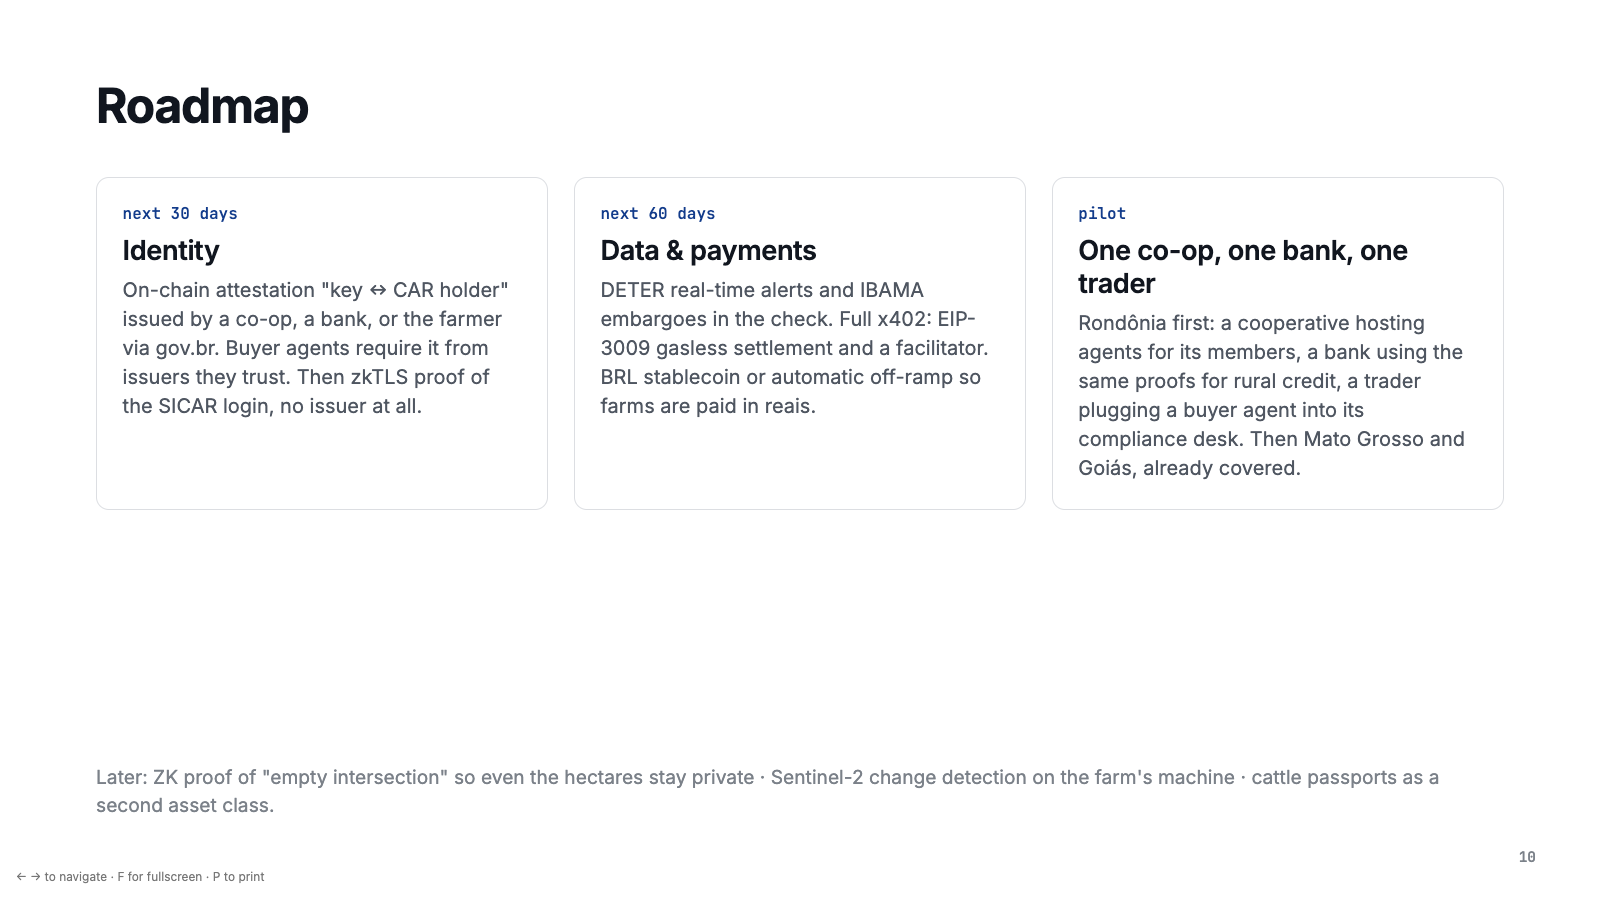
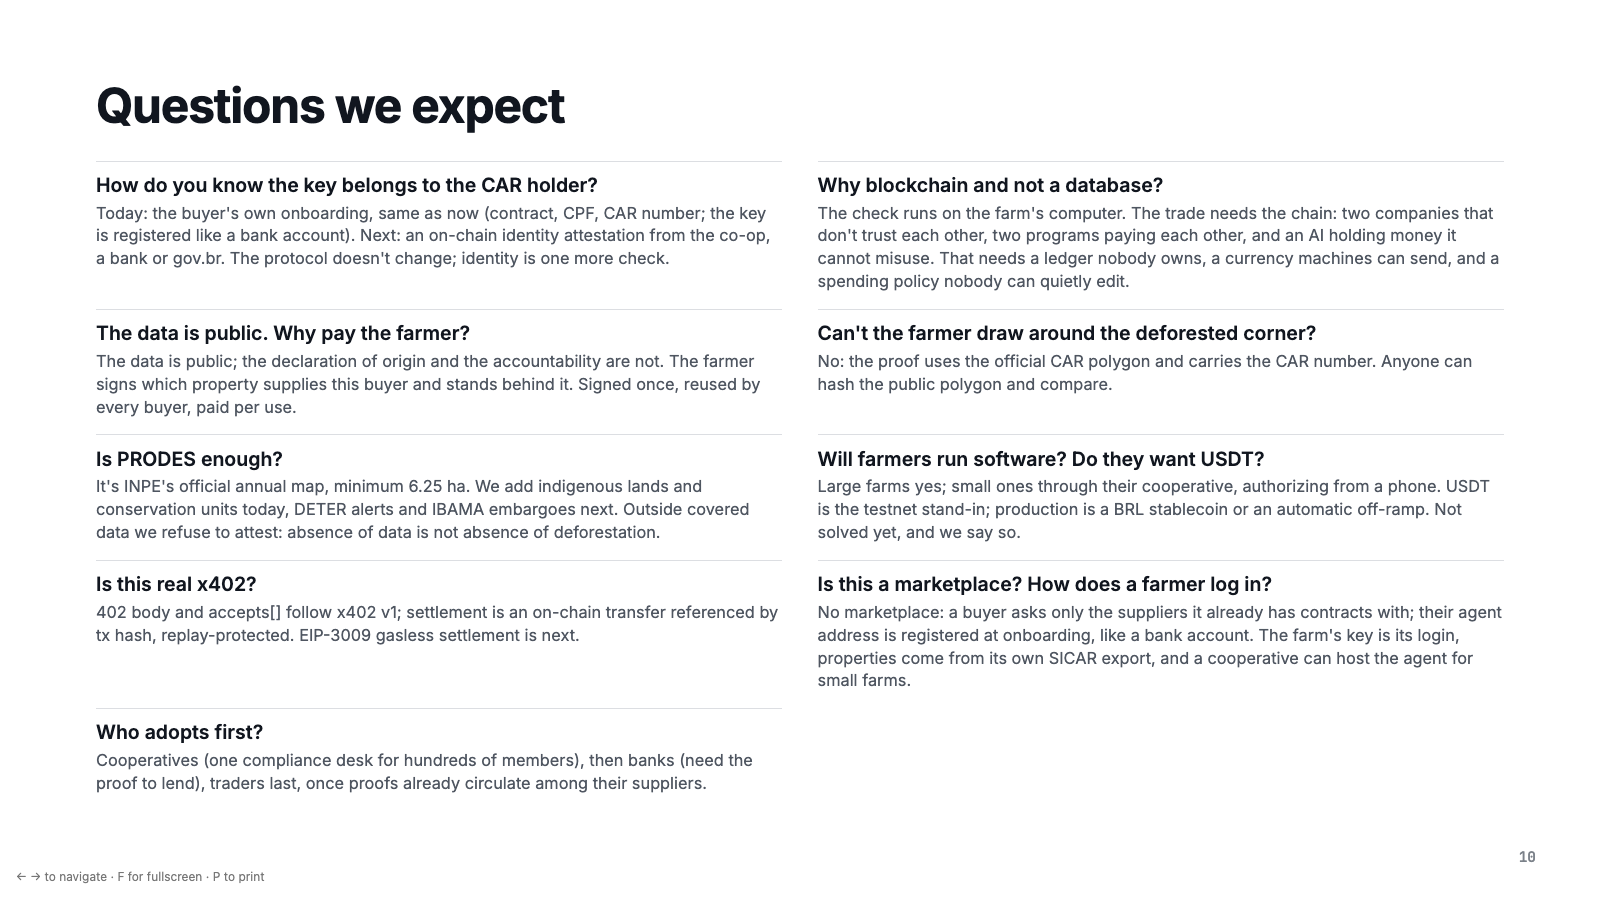
Drop 'who talks to whom' slide; fold into Q&A; renumber

diff --git a/docs/slides/index.html b/docs/slides/index.html
@@ -144,18 +144,6 @@
 
 <!-- 5 -->
 <section class="slide">
-  <h2>Who talks to whom. There is no marketplace.</h2>
-  <div class="markets">
-    <div class="mkt" style="background:var(--ok-soft);border-color:transparent"><i>farm side</i><b>The key is the login</b><p>No account, no password. The farmer agent holds the farm's key, like a wallet. Properties are imported <b>once from SICAR</b>, the farmer's own CAR export by CPF. Production: gov.br sign-in, automatic import. Small farms: the <b>cooperative hosts the agent</b>; the farmer authorizes from a phone.</p></div>
-    <div class="mkt" style="background:var(--primary-soft);border-color:transparent"><i>buyer side</i><b>It asks its own suppliers</b><p>A trader, bank or co-op already has contracts with its suppliers. At onboarding it registers each supplier's <b>agent address</b>, like a bank account, and allow-lists the key. Its agent asks those suppliers, nobody else. An unknown key offering someone's farm is <b>refused</b>, even with a valid-looking proof.</p></div>
-    <div class="mkt"><i>on-chain</i><b>One registry, no owner</b><p>The hash of every attestation, who anchored it, revocations. Payments in stablecoin through the buyer's <b>AgentWallet</b>, with limits. Anyone verifies; nobody controls it. The same proof serves every buyer that asks this season.</p></div>
-  </div>
-  <p class="note">Banks, importers and cooperatives work the same way: they talk to the suppliers they already know, and the proof they get is the same one.</p>
-  <span class="n">5</span>
-</section>
-
-<!-- 6 -->
-<section class="slide">
   <h2>Where AI sits, where the chain sits</h2>
   <div class="layers">
     <div class="layer ai">
@@ -178,10 +166,10 @@
     </div>
   </div>
   <p class="note" style="font-size:1.35vw;color:var(--ink);margin-top:1.4vw">The check runs on the farm's own computer. The <b>trade</b> needs the chain: two companies that don't trust each other, two programs paying each other, and an AI holding money it cannot misuse.</p>
-  <span class="n">6</span>
+  <span class="n">5</span>
 </section>
 
-<!-- 7 -->
+<!-- 6 -->
 <section class="slide">
   <div class="kicker">Live demo</div>
   <div class="two">
@@ -195,10 +183,10 @@
       </ul>
     </div>
   </div>
-  <span class="n">7</span>
+  <span class="n">6</span>
 </section>
 
-<!-- 8 -->
+<!-- 7 -->
 <section class="slide">
   <h2>Under the hood</h2>
   <div class="flow">
@@ -215,10 +203,10 @@
       <li><b>Next:</b> EIP-3009 gasless settlement · ZK proof of empty intersection · Sentinel-2 change detection on the farmer's machine · IBAMA embargoes · cattle passports.</li>
     </ul>
   </div>
-  <span class="n">8</span>
+  <span class="n">7</span>
 </section>
 
-<!-- 9 -->
+<!-- 8 -->
 <section class="slide">
   <h2>Adoption path: where the pain is sharpest first, traders last.</h2>
   <div class="markets">
@@ -228,10 +216,10 @@
   </div>
   <p class="lead" style="margin-top:1.8vw;font-size:1.6vw">Built to scale: every farm runs its own agent, every buyer its own; one public registry; contracts and agents generic enough for any private dataset sold as a proof.</p>
   <p class="note">Pilot partners wanted: a cooperative, a bank, a trader · github.com/Muril0zz/proof-of-field</p>
-  <span class="n">9</span>
+  <span class="n">8</span>
 </section>
 
-<!-- 10 -->
+<!-- 9 -->
 <section class="slide">
   <h2>Roadmap</h2>
   <div class="markets">
@@ -240,10 +228,10 @@
     <div class="mkt"><i>pilot</i><b>One co-op, one bank, one trader</b><p>Rondônia first: a cooperative hosting agents for its members, a bank using the same proofs for rural credit, a trader plugging a buyer agent into its compliance desk. Then Mato Grosso and Goiás, already covered.</p></div>
   </div>
   <p class="note">Later: ZK proof of "empty intersection" so even the hectares stay private · Sentinel-2 change detection on the farm's machine · cattle passports as a second asset class.</p>
-  <span class="n">10</span>
+  <span class="n">9</span>
 </section>
 
-<!-- 11 -->
+<!-- 10 -->
 <section class="slide">
   <h2>Questions we expect</h2>
   <div class="qa">
@@ -254,9 +242,10 @@
     <div><b>Is PRODES enough?</b><p>It's INPE's official annual map, minimum 6.25 ha. We add indigenous lands and conservation units today, DETER alerts and IBAMA embargoes next. Outside covered data we refuse to attest: absence of data is not absence of deforestation.</p></div>
     <div><b>Will farmers run software? Do they want USDT?</b><p>Large farms yes; small ones through their cooperative, authorizing from a phone. USDT is the testnet stand-in; production is a BRL stablecoin or an automatic off-ramp. Not solved yet, and we say so.</p></div>
     <div><b>Is this real x402?</b><p>402 body and accepts[] follow x402 v1; settlement is an on-chain transfer referenced by tx hash, replay-protected. EIP-3009 gasless settlement is next.</p></div>
+    <div><b>Is this a marketplace? How does a farmer log in?</b><p>No marketplace: a buyer asks only the suppliers it already has contracts with; their agent address is registered at onboarding, like a bank account. The farm's key is its login, properties come from its own SICAR export, and a cooperative can host the agent for small farms.</p></div>
     <div><b>Who adopts first?</b><p>Cooperatives (one compliance desk for hundreds of members), then banks (need the proof to lend), traders last, once proofs already circulate among their suppliers.</p></div>
   </div>
-  <span class="n">11</span>
+  <span class="n">10</span>
 </section>
 
 </div>

diff --git a/docs/PITCH.md b/docs/PITCH.md
@@ -1,12 +1,12 @@
 # Proof of Field — 3-minute presentation (1 min pitch · 2 min demo) + 2 min Q&A
 
 ## Before walking up (checklist)
-- ONE browser tab, fullscreen: **http://localhost:4030/demo** (left = FARM, right = TRADER). Nothing else on screen.
+- ONE browser tab, fullscreen: **http://localhost:4030/demo** (left = FARM, right = TRADER). Nothing else on screen. Reload the page before starting.
 - Farm side: dropdown on **João Silva** (three registered properties), none selected. Pedro Lima is the other option (one real CAR property in Nova Mamoré). Trader side: instruction pre-filled; under each supplier, every property ticked with its verdict pill. The trader can untick any property.
 - Sales ledger empty (STATUS.md has the command). Slides open in another window, fullscreen, on slide 1.
 - Backup only if the page breaks: terminal with `NETWORK=hsk-testnet pnpm buyer -- <proof URL>`.
 
-## 90-second pitch (slides 1 → 2 → 3 → 4 → 6 → 9; skip 5, 7, 8)
+## 90-second pitch (slides 1 → 2 → 3 → 4 → 5 → 8; skip 6, 7)
 
 **[1] 0:00** "This is Proof of Field. It turns the compliance paper behind every soy and beef shipment into a portable proof: signed once by the farm, bought and verified by AI agents."
 
@@ -16,9 +16,9 @@
 
 **[4] 0:40** "We make the proof portable. The farm's computer crosses its official CAR polygon with government data, INPE deforestation, indigenous lands, conservation units, and signs once. Any buyer's agent picks up that same proof, verifies it on-chain, and pays the farm per use. The middleman's job splits four ways: agents collect, open software checks, anyone can recompute, and it's done once."
 
-**[6] 1:00** "The check runs on the farm's own computer. What needs the chain is the trade: two companies that don't trust each other, two programs paying each other, and an AI holding money it cannot misuse. The model decides; the contract enforces. That's why it's on HashKey Chain."
+**[5] 1:00** "The check runs on the farm's own computer. What needs the chain is the trade: two companies that don't trust each other, two programs paying each other, and an AI holding money it cannot misuse. The model decides; the contract enforces. That's why it's on HashKey Chain."
 
-**[9] 1:15** "It's live on testnet with real properties and one hundred thousand real polygons. Cooperatives first, banks second, traders last. Let me show you."
+**[8] 1:15** "It's live on testnet with real properties and one hundred thousand real polygons. Cooperatives first, banks second, traders last. Let me show you."
 
 ## 90-second demo, two clicks (http://localhost:4030/demo)
 
@@ -30,8 +30,8 @@
 
 Two sentences to repeat in every Q&A answer: **"The model decides; the contract enforces."** · **"Signed once, verified by anyone, paid per use."**
 
-## Slides 7–11 are for Q&A only
-Jump to 8 for "how does it work", 9 for adoption, 10 for the roadmap, 11 for the expected questions with answers (open it if a question you can't answer comes up).
+## Slides 6–10 are for Q&A only
+Jump to 7 for "how does it work", 8 for adoption, 9 for the roadmap, 10 for the expected questions with answers (open it if a question you can't answer comes up).
 
 ## Demo script (90 s, in English — rehearse 3×)
 
